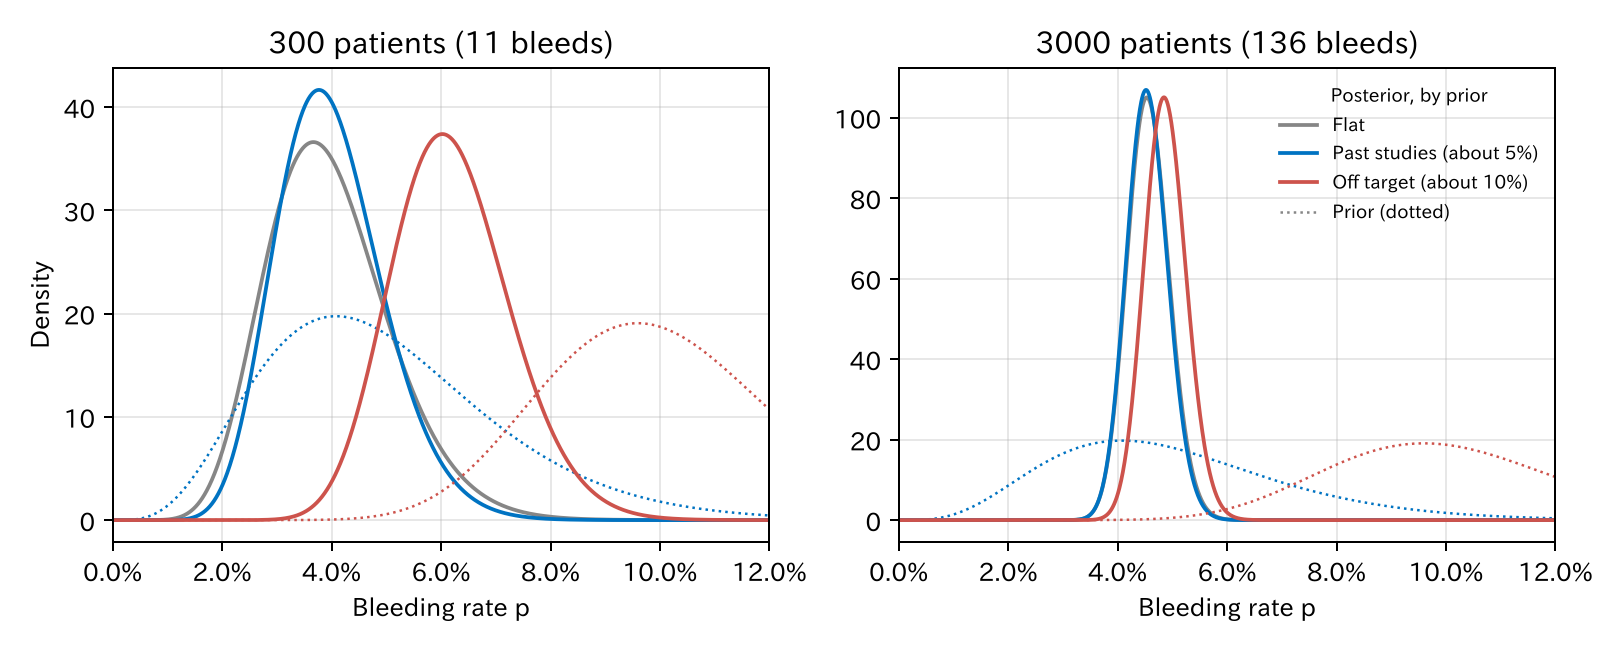
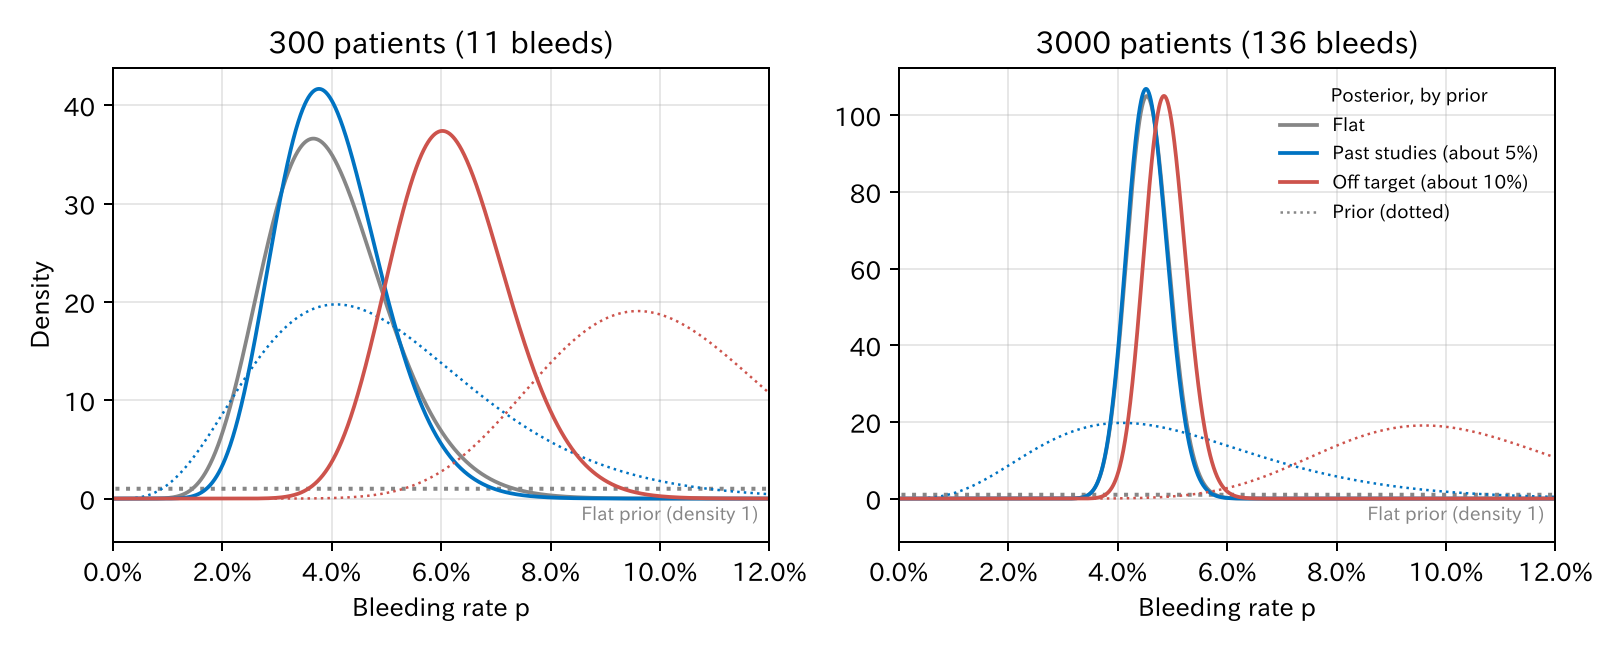
examples(theory): show the flat prior, move a legend, trim KM margins
Claude-Session: https://claude.ai/code/session_01Lm8WF6KeUt1LhWHZNayWLc

diff --git a/examples/theory_bleeding/theory_bleeding.py b/examples/theory_bleeding/theory_bleeding.py
@@ -2323,7 +2323,15 @@ def likelihood(df: pl.DataFrame, out: Path) -> None:
     )
     axes[1].set_ylim(-8, 0.5)
     axes[1].set_ylabel("log likelihood (minus its maximum)")
-    axes[1].legend(frameon=False, fontsize=8, loc="upper right")
+    # Keep the legend right of x = 6.3%, where the curves have already fallen
+    # below the 95% line, so no curve runs through it.
+    axes[1].legend(
+        frameon=False,
+        fontsize=7.5,
+        handlelength=1.5,
+        loc="upper right",
+        borderaxespad=0.3,
+    )
     for ax in axes:
         ax.set_xlabel("Bleeding rate p")
         ax.set_xlim(0, 0.10)
@@ -2472,8 +2480,16 @@ def _bayes_rate(sets: dict[str, pl.DataFrame], out: Path) -> None:
                     "cri_high": float(post.ppf(0.975)),
                 }
             )
-            if prior != "Flat":
-                ax.plot(grid, stats.beta(a, b).pdf(grid), color=color, ls=":", lw=1)
+            # The flat prior has density 1 everywhere; draw it slightly thicker
+            # so it stays visible just above the baseline.
+            flat = prior == "Flat"
+            ax.plot(
+                grid,
+                stats.beta(a, b).pdf(grid),
+                color=color,
+                ls=":",
+                lw=1.6 if flat else 1,
+            )
             ax.plot(
                 grid,
                 post.pdf(grid),
@@ -2481,6 +2497,18 @@ def _bayes_rate(sets: dict[str, pl.DataFrame], out: Path) -> None:
                 label=prior,
             )
         ax.set_title(f"{name} ({events} bleeds)")
+        # Label the flat prior in the empty band below the baseline.
+        top = ax.get_ylim()[1]
+        ax.set_ylim(-0.1 * top, top)
+        ax.text(
+            0.118,
+            -0.012 * top,
+            "Flat prior (density 1)",
+            color=GRAY,
+            fontsize=7.5,
+            ha="right",
+            va="top",
+        )
         ax.set_xlabel("Bleeding rate p")
         ax.set_xlim(0, 0.12)
         ax.xaxis.set_major_formatter(matplotlib.ticker.PercentFormatter(1.0))
@@ -2980,7 +3008,9 @@ def survival(df: pl.DataFrame, out: Path) -> None:
         ax.figure,
         {km_palette[i]: house[g] for i, g in enumerate(first)},
     )
-    ax.figure.savefig(out / "figures" / "ch15_km.png", dpi=180)
+    ax.figure.savefig(
+        out / "figures" / "ch15_km.png", dpi=180, bbox_inches="tight", pad_inches=0.1
+    )
     plt.close(ax.figure)
 
     # Person-time: the classic rate.
